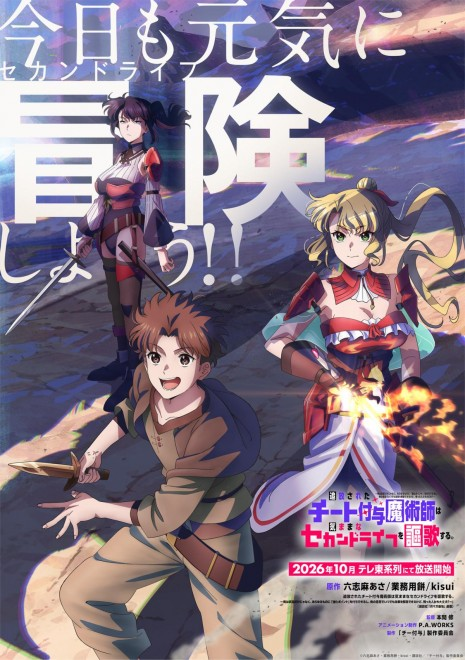
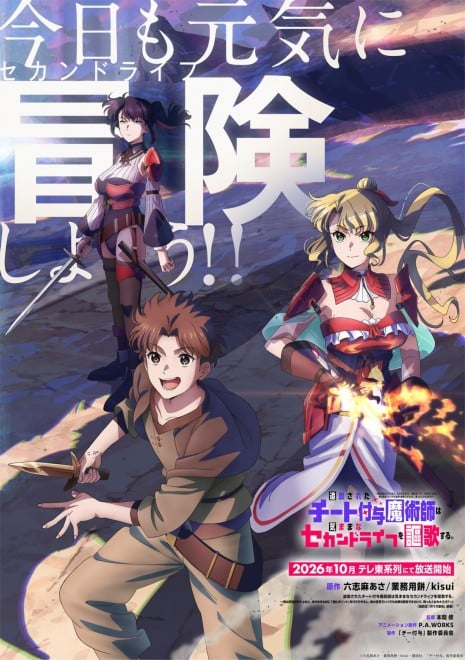
Cache anime covers locally

diff --git a/assets/data.js b/assets/data.js
@@ -2,19 +2,19 @@ window.ANINEXTUP_DATA={
 updated:"2026-10-03",
 site:{timezone:"America/Santo_Domingo",season:"Fall 2026"},
 anime:[
-{id:"im-looking-for-a-zombie",image:"https://poptopic.com.au/wp-content/uploads/2026/09/zombie-anime-aki-new-world.jpg",title:"I'm Looking For a Zombie",date:"2026-10-03",platform:"Crunchyroll",article:"articles/im-looking-for-a-zombie.html",category:"Premiere",status:"confirmed"},
+{id:"im-looking-for-a-zombie",image:"assets/images/covers/im-looking-for-a-zombie.jpg",title:"I'm Looking For a Zombie",date:"2026-10-03",platform:"Crunchyroll",article:"articles/im-looking-for-a-zombie.html",category:"Premiere",status:"confirmed"},
 {id:"tale-secret-saint",image:"assets/images/covers/tale-secret-saint.webp",title:"A Tale of the Secret Saint",date:"2026-10-03",platform:"Crunchyroll",article:"articles/tale-secret-saint.html",category:"Premiere",status:"confirmed"},
 {id:"romelia-war-chronicle",image:"assets/images/covers/romelia-war-chronicle.png",title:"Romelia War Chronicle",date:"2026-10-03",platform:"Crunchyroll",article:"articles/romelia-war-chronicle.html",category:"Premiere",status:"confirmed"},
-{id:"aoashi-season-2",image:"https://a.storyblok.com/f/178900/750x1061/934cdd2f6a/aoashi-season-2-key-visual.jpg",title:"Aoashi Season 2",date:"2026-10-04",platform:"Crunchyroll",article:"articles/aoashi-season-2.html",category:"Season Premiere",status:"confirmed"},
+{id:"aoashi-season-2",image:"assets/images/covers/aoashi-season-2.jpg",title:"Aoashi Season 2",date:"2026-10-04",platform:"Crunchyroll",article:"articles/aoashi-season-2.html",category:"Season Premiere",status:"confirmed"},
 {id:"reincarnated-goblin",image:"assets/images/covers/reincarnated-goblin.jpeg",title:"So What's Wrong with Getting Reborn as a Goblin?",date:"2026-10-05",platform:"Crunchyroll",article:"articles/reincarnated-goblin.html",category:"Premiere",status:"confirmed"},
 {id:"laid-off-cheat-granting-mage",image:"assets/images/covers/laid-off-cheat-granting-mage.jpg",title:"The Laid-Off Cheat-Granting Mage Enjoys a Second Lease on Life",date:"2026-10-06",platform:"Crunchyroll",article:"articles/laid-off-cheat-granting-mage.html",category:"Premiere",status:"confirmed"},
 {id:"sasaki-and-peeps-season-2",image:"assets/images/covers/sasaki-and-peeps-season-2.jpg",title:"Sasaki and Peeps Season 2",date:"2026-10-07",platform:"Crunchyroll",article:"articles/sasaki-and-peeps-season-2.html",category:"Season Premiere",status:"confirmed"},
 {id:"detective-is-already-dead-season-2",image:"assets/images/covers/detective-is-already-dead-season-2.jpg",title:"The Detective Is Already Dead Season 2",date:"2026-10-07",platform:"Crunchyroll",article:"articles/detective-is-already-dead-season-2.html",category:"Season Premiere",status:"confirmed"},
-{id:"iceblade-sorcerer-ii",image:"https://a.storyblok.com/f/178900/750x1061/95c1d58c87/iceblade-sorcerer-season-2-key-visual.jpg",title:"The Iceblade Sorcerer Shall Rule the World II",date:"2026-10-08",platform:"Crunchyroll",article:"articles/iceblade-sorcerer-ii.html",category:"Season Premiere",status:"confirmed"},
-{id:"ace-of-diamond-second-season",image:"https://a.storyblok.com/f/178900/750x1061/50c5a8c8d9/ace-of-the-diamond-act-ii-second-season-key-visual.jpg",title:"Ace of the Diamond act II -Second Season-",date:"2026-10-11",platform:"Crunchyroll",article:"articles/ace-of-diamond-second-season.html",category:"Season Premiere",status:"confirmed"},
-{id:"ramparts-of-ice-season-2",image:"https://a.storyblok.com/f/178900/750x1061/2cddac28ca/the-ramparts-of-ice-season-2-key-visual.jpg",title:"The Ramparts of Ice Season 2",date:"2026-10-01",platform:"Netflix",article:"articles/ramparts-of-ice-season-2.html",category:"Season Premiere",status:"confirmed"},
+{id:"iceblade-sorcerer-ii",image:"assets/images/covers/iceblade-sorcerer-ii.jpg",title:"The Iceblade Sorcerer Shall Rule the World II",date:"2026-10-08",platform:"Crunchyroll",article:"articles/iceblade-sorcerer-ii.html",category:"Season Premiere",status:"confirmed"},
+{id:"ace-of-diamond-second-season",image:"assets/images/covers/ace-of-diamond-second-season.jpg",title:"Ace of the Diamond act II -Second Season-",date:"2026-10-11",platform:"Crunchyroll",article:"articles/ace-of-diamond-second-season.html",category:"Season Premiere",status:"confirmed"},
+{id:"ramparts-of-ice-season-2",image:"assets/images/covers/ramparts-of-ice-season-2.jpg",title:"The Ramparts of Ice Season 2",date:"2026-10-01",platform:"Netflix",article:"articles/ramparts-of-ice-season-2.html",category:"Season Premiere",status:"confirmed"},
 {id:"returners-magic-s2",image:"assets/images/covers/returners-magic-s2.jpeg",title:"A Returner's Magic Should Be Special Season 2",date:"2026-10-07",platform:"Crunchyroll",article:"articles/returners-magic-season-2.html",category:"Season Premiere",status:"confirmed"},
-{id:"magic-knight-rayearth",image:"https://a.storyblok.com/f/178900/750x1061/1ca4c6688c/magic-knight-rayearth-2026-key-visual.jpg",title:"Magic Knight Rayearth",date:"2026-10-07",platform:"Crunchyroll",article:"articles/magic-knight-rayearth-2026.html",category:"Premiere",status:"confirmed"},
+{id:"magic-knight-rayearth",image:"assets/images/covers/magic-knight-rayearth.jpg",title:"Magic Knight Rayearth",date:"2026-10-07",platform:"Crunchyroll",article:"articles/magic-knight-rayearth-2026.html",category:"Premiere",status:"confirmed"},
 {id:"firefly-wedding",image:"assets/images/covers/firefly-wedding.jpg",title:"Firefly Wedding",date:"2026-10-09",platform:"Crunchyroll",article:"articles/firefly-wedding.html",category:"Premiere",status:"confirmed"},
 {id:"my-happy-marriage-specials",image:"assets/images/covers/my-happy-marriage-specials.jpg",title:"My Happy Marriage Season 2 Special Episodes",date:"2026-10-25",platform:"Netflix",article:"articles/my-happy-marriage-special-episodes.html",category:"Special Episodes",status:"confirmed"},
 {id:"apothecary-s3",image:"assets/images/apothecary-diaries-season-3.jpg",title:"The Apothecary Diaries Season 3",date:"2026-10-02",platform:"Crunchyroll",article:"articles/apothecary-diaries-season-3.html",category:"Season Premiere",status:"confirmed"},
